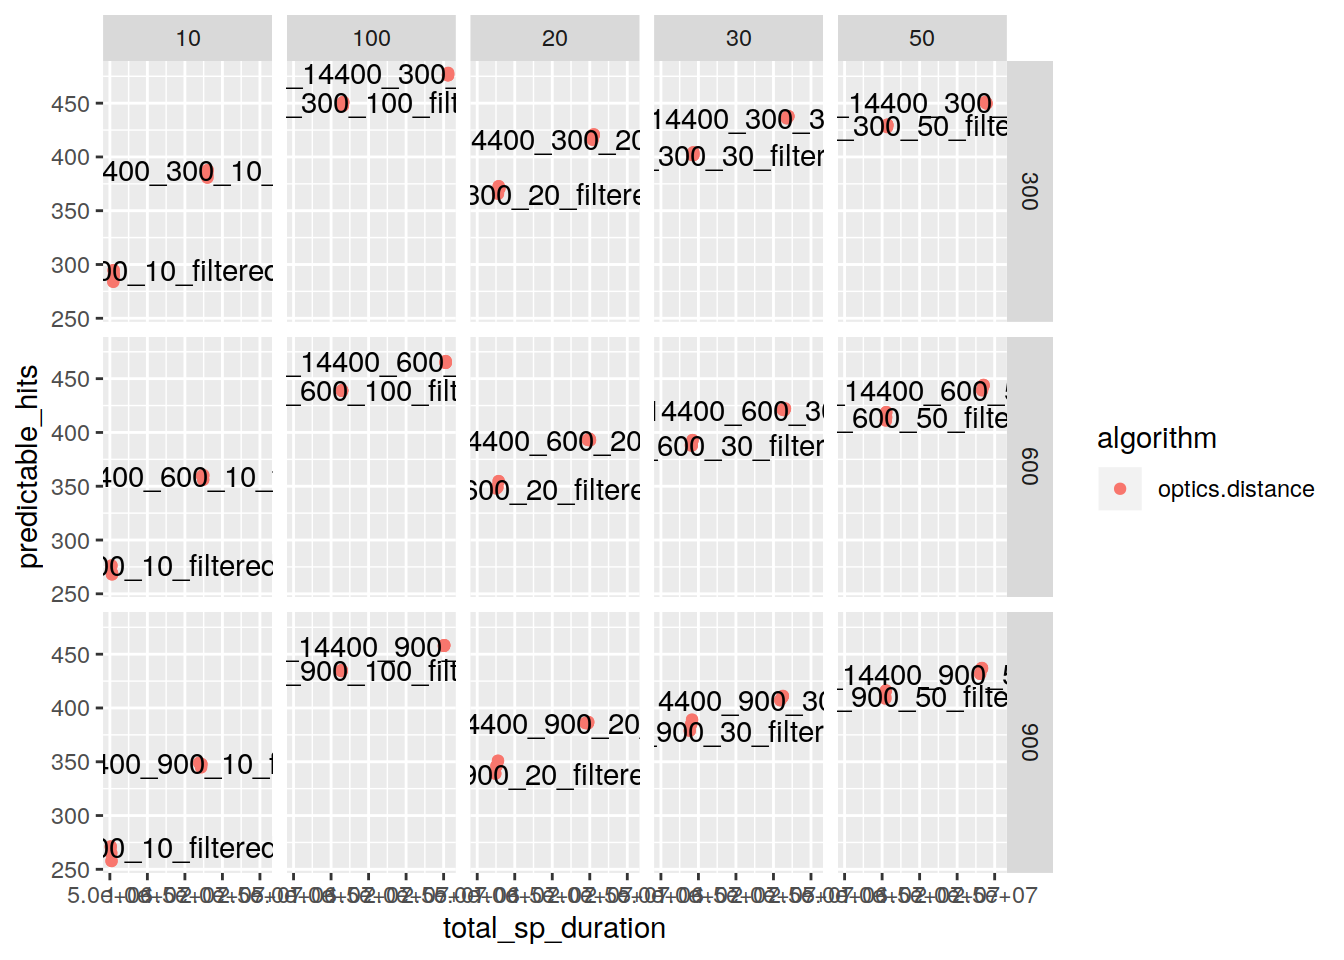
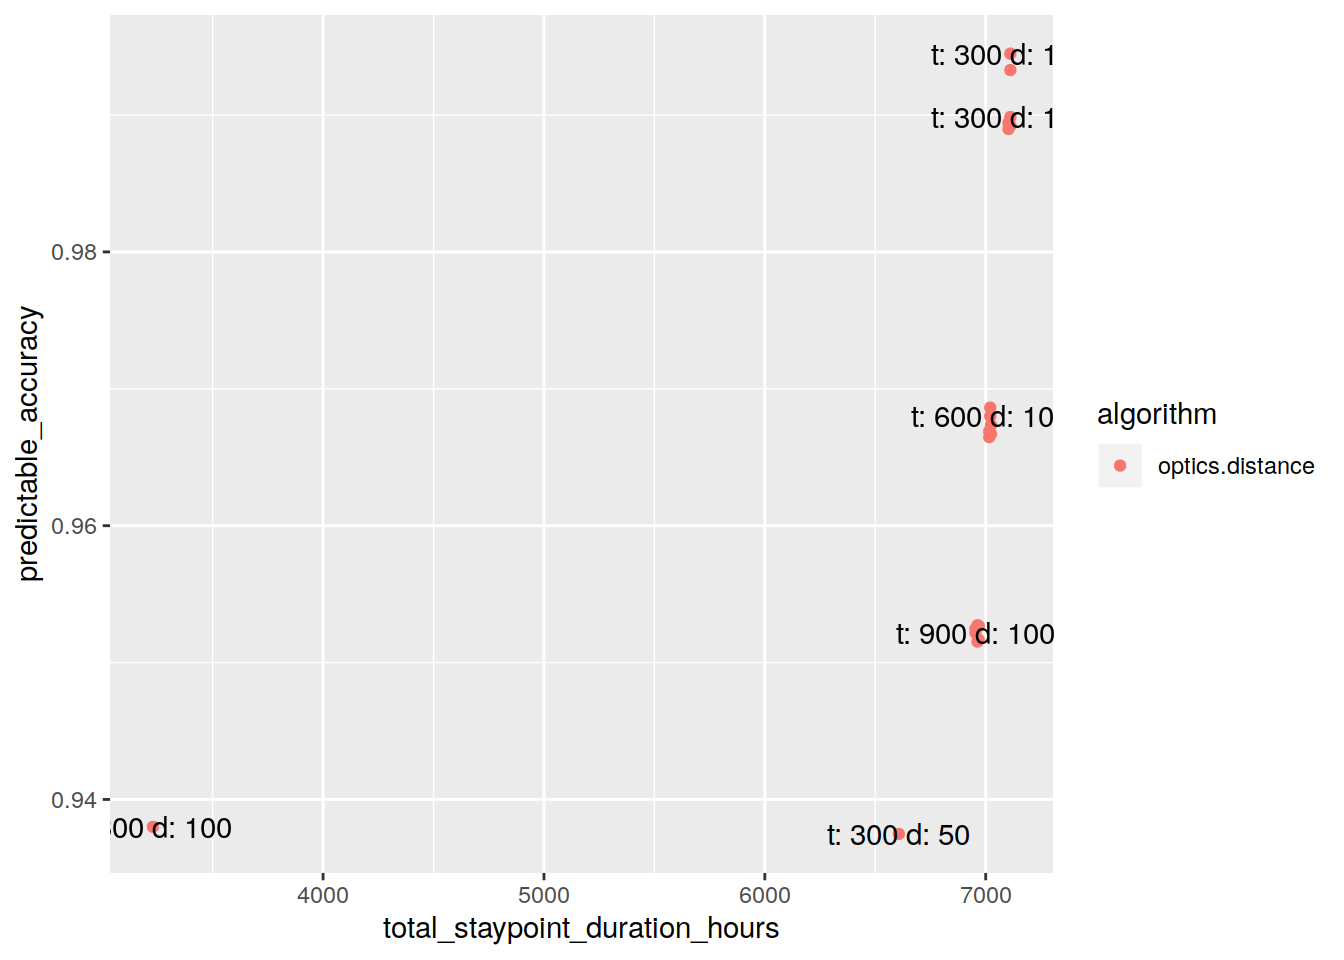
Build site.

diff --git a/docs/evaluate_florian_best_dataset.html b/docs/evaluate_florian_best_dataset.html
@@ -502,10 +502,10 @@ This reproducible <a href="http://rmarkdown.rstudio.com">R Markdown</a> analysis
 <div class="panel panel-default">
 <div class="panel-heading">
 <p class="panel-title">
-<a data-toggle="collapse" data-parent="#workflowr-checks" href="#strongRepositoryversionstrongahrefhttpsgithubcomdewollerdusk2dawntree5e0af319126a4fecf9c47a9268d25c4f13bb8d28targetblank5e0af31a"> <span class="glyphicon glyphicon-ok text-success" aria-hidden="true"></span> <strong>Repository version:</strong> <a href="https://github.com/dewoller/dusk2dawn/tree/5e0af319126a4fecf9c47a9268d25c4f13bb8d28" target="_blank">5e0af31</a> </a>
+<a data-toggle="collapse" data-parent="#workflowr-checks" href="#strongRepositoryversionstrongahrefhttpsgithubcomdewollerdusk2dawntree18953983ab450b2eac5a4e8b56cc4240fb564e6ftargetblank1895398a"> <span class="glyphicon glyphicon-ok text-success" aria-hidden="true"></span> <strong>Repository version:</strong> <a href="https://github.com/dewoller/dusk2dawn/tree/18953983ab450b2eac5a4e8b56cc4240fb564e6f" target="_blank">1895398</a> </a>
 </p>
 </div>
[2 lines of base64/hex data omitted]
 <div class="panel-body">
 <p>
 Great! You are using Git for version control. Tracking code development and connecting the code version to the results is critical for reproducibility. The version displayed above was the version of the Git repository at the time these results were generated. <br><br> Note that you need to be careful to ensure that all relevant files for the analysis have been committed to Git prior to generating the results (you can use <code>wflow_publish</code> or <code>wflow_git_commit</code>). workflowr only checks the R Markdown file, but you know if there are other scripts or data files that it depends on. Below is the status of the Git repository when the results were generated:
@@ -573,6 +573,40 @@ Message
 </tr>
 </thead>
 <tbody>
+<tr>
+<td>
+Rmd
+</td>
+<td>
+<a href="https://github.com/dewoller/dusk2dawn/blob/18953983ab450b2eac5a4e8b56cc4240fb564e6f/analysis/evaluate_florian_best_dataset.Rmd" target="_blank">1895398</a>
+</td>
+<td>
+Dennis Wollersheim
+</td>
+<td>
+2020-01-30
+</td>
+<td>
+wflow_publish(“analysis/evaluate_florian_best_dataset.Rmd”)
+</td>
+</tr>
+<tr>
+<td>
+html
+</td>
+<td>
+<a href="https://rawcdn.githack.com/dewoller/dusk2dawn/b471269c5f4ffca3e0c81ea142df2018a0b2809f/docs/evaluate_florian_best_dataset.html" target="_blank">b471269</a>
+</td>
+<td>
+Dennis Wollersheim
+</td>
+<td>
+2020-01-30
+</td>
+<td>
+Build site.
+</td>
+</tr>
 <tr>
 <td>
 Rmd
@@ -683,25 +717,30 @@ wflow_publish(“analysis/evaluate_florian_best_dataset.Rmd”)
 </div>
 </div>
 
-<pre class="r"><code>suppressWarnings(suppressMessages(suppressPackageStartupMessages({ source(&#39;lib/base_initialise.R&#39;) })))
-source(&#39;lib/functions.R&#39;)
-source(&#39;lib/gps_functions.R&#39;)
-source(&#39;lib/location_prep.R&#39;)
-source(&#39;lib/load_results.R&#39;)</code></pre>
-<pre><code>Warning: Expected 8 pieces. Missing pieces filled with `NA` in 720 rows [1, 2,
-3, 4, 5, 6, 7, 8, 9, 10, 11, 12, 13, 14, 15, 16, 17, 18, 19, 20, ...].</code></pre>
-<pre class="r"><code>source(&#39;lib/evaluate_staypoint_estimates_helper.R&#39;)
-source(&#39;lib/survey_functions.R&#39;)
-source(&quot;explore/failure_analysis_florian_surveys.R&quot;)
+<pre class="r"><code>suppressWarnings(suppressMessages(suppressPackageStartupMessages({
+
+  source(&#39;lib/base_initialise.R&#39;)
+  source(&#39;lib/functions.R&#39;)
+  source(&#39;lib/gps_functions.R&#39;)
+  source(&#39;lib/location_prep.R&#39;)
+  source(&#39;lib/load_results.R&#39;)
+  source(&#39;lib/evaluate_staypoint_estimates_helper.R&#39;)
+  source(&#39;lib/survey_functions.R&#39;)
+  source(&quot;explore/failure_analysis_florian_surveys.R&quot;)
+
+  })))
 min_accuracy = 10</code></pre>
-<div id="all-algorithms" class="section level1">
-<h1>all algorithms</h1>
+<div id="comparision-the-top-10-algorithms" class="section level1">
+<h1>comparision the top 10 algorithms</h1>
 <pre class="r"><code>df_results %&gt;%
   filter(interpol_parm &gt; 0  &amp; algorithm == &#39;optics.distance&#39;) %&gt;%
-  ggplot( aes(total_sp_duration, predictable_hits, color=algorithm), alpha=.1 ) +
+  mutate( predictable_accuracy = predictable_hits / (predictable_hits + predictable_misses),
+  total_staypoint_duration_hours = total_sp_duration/3600)  %&gt;%
+  arrange(desc(predictable_accuracy)) %&gt;%
+  head(20) %&gt;%
+  ggplot( aes(total_staypoint_duration_hours, predictable_accuracy, color=algorithm), alpha=.1 ) +
   geom_jitter(position = position_jitter(seed = 1)) +
-  geom_text(aes( label=source), color=&#39;black&#39; , position = position_jitter(seed = 1), check_overlap=TRUE) +
-  facet_grid( min_sp_duration ~ max_sp_radius )</code></pre>
+  geom_text(aes( label= paste(&#39;t:&#39;, min_sp_duration, &#39;d:&#39;, max_sp_radius)), color=&#39;black&#39; , position = position_jitter(seed = 1), check_overlap=TRUE)</code></pre>
 <p><img src="figure/evaluate_florian_best_dataset.Rmd/all-1.png" width="672" style="display: block; margin: auto;" /></p>
 <p>
 <button type="button" class="btn btn-default btn-xs btn-workflowr btn-workflowr-fig" data-toggle="collapse" data-target="#fig-all-1">
@@ -5376,15 +5415,15 @@ loaded via a namespace (and not attached):
 [40] munsell_0.5.0        fansi_0.4.1          lifecycle_0.1.0     
 [43] stringi_1.4.5        whisker_0.4          yaml_2.2.0          
 [46] snakecase_0.11.0     storr_1.2.1          RJSONIO_1.3-1.4     
-[49] plyr_1.8.5           grid_3.6.1           crayon_1.3.4        
-[52] lattice_0.20-38      haven_2.2.0          hms_0.5.3           
-[55] zeallot_0.1.0        anytime_0.3.6        pillar_1.4.3        
-[58] igraph_1.2.4.2       base64url_1.4        reshape2_1.4.3      
-[61] codetools_0.2-16     futile.options_1.0.1 reprex_0.3.0        
-[64] evaluate_0.14        lambda.r_1.2.4       modelr_0.1.5        
-[67] vctrs_0.2.1          cellranger_1.1.0     gtable_0.3.0        
-[70] assertthat_0.2.1     xfun_0.11            broom_0.5.3         
-[73] viridisLite_0.3.0    workflowr_1.4.0.9001 ellipsis_0.3.0      </code></pre>
+[49] grid_3.6.1           crayon_1.3.4         lattice_0.20-38     
+[52] haven_2.2.0          hms_0.5.3            zeallot_0.1.0       
+[55] anytime_0.3.6        pillar_1.4.3         igraph_1.2.4.2      
+[58] base64url_1.4        codetools_0.2-16     futile.options_1.0.1
+[61] reprex_0.3.0         evaluate_0.14        lambda.r_1.2.4      
+[64] modelr_0.1.5         vctrs_0.2.1          cellranger_1.1.0    
+[67] gtable_0.3.0         assertthat_0.2.1     xfun_0.11           
+[70] broom_0.5.3          viridisLite_0.3.0    workflowr_1.4.0.9001
+[73] ellipsis_0.3.0      </code></pre>
 </div>
 </div>
 </div>
